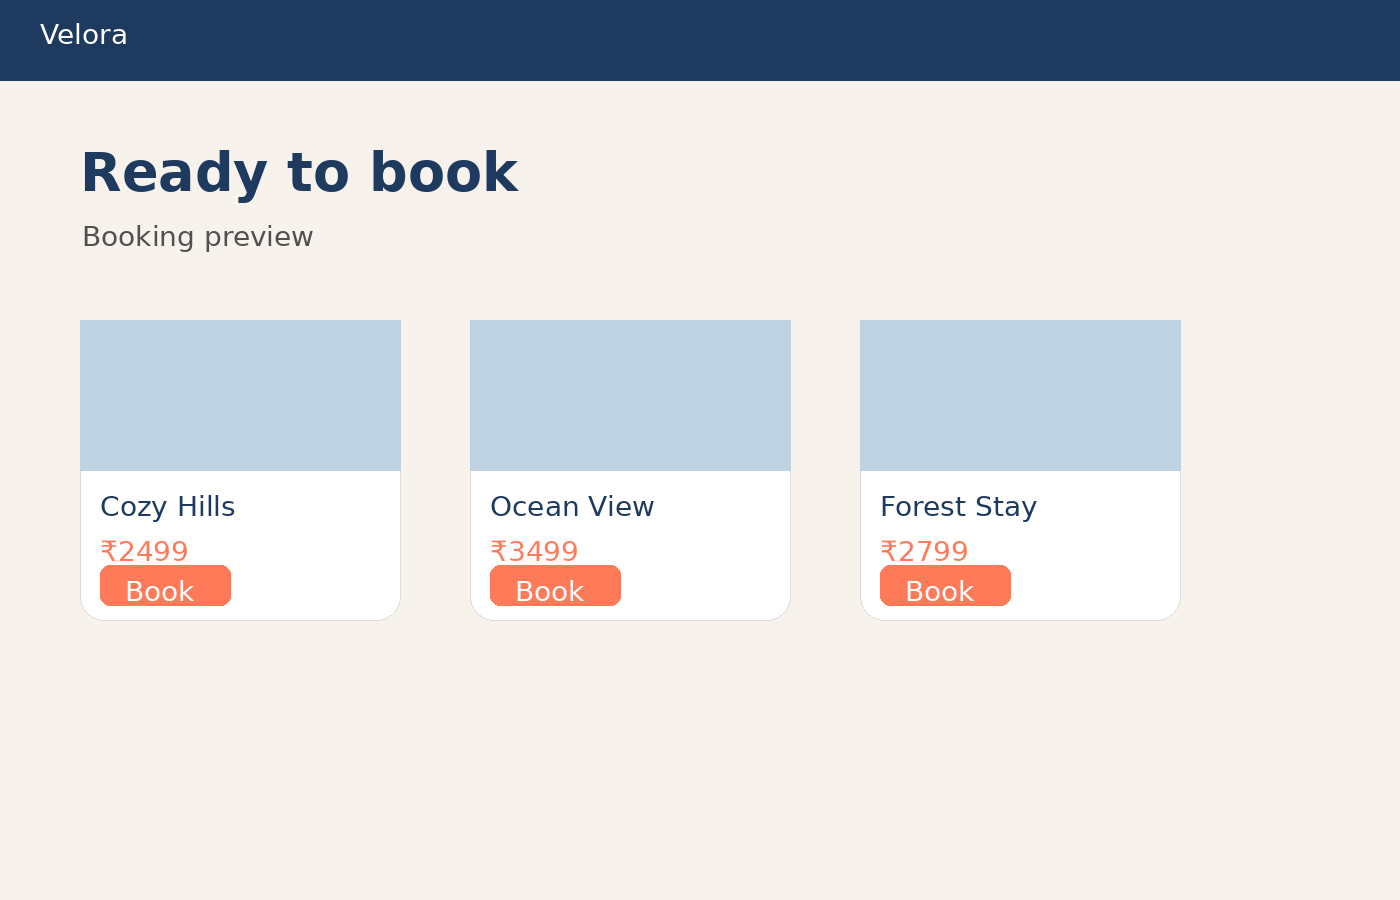
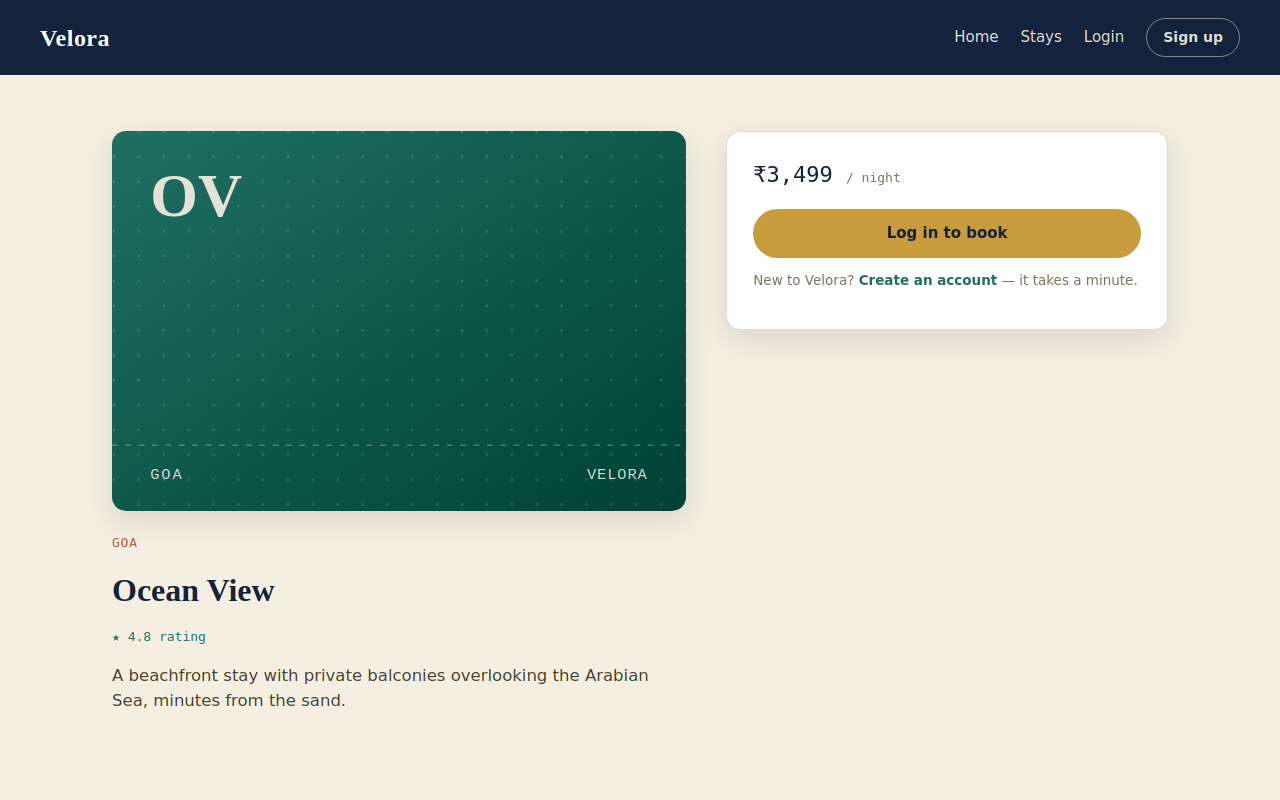
Update images and README

diff --git a/data/hotels.js b/data/hotels.js
@@ -8,7 +8,7 @@ const hotels = [
     location: "Ooty, Tamil Nadu",
     price: 2499,
     rating: 4.6,
-    image: "https://picsum.photos/seed/velora1/600/400",
+    image: "/images/cozy-hills.svg",
     description:
       "A quiet hillside cottage surrounded by tea gardens, perfect for a peaceful weekend away from the city."
   },
@@ -18,7 +18,7 @@ const hotels = [
     location: "Goa",
     price: 3499,
     rating: 4.8,
-    image: "https://picsum.photos/seed/velora2/600/400",
+    image: "/images/ocean-view.svg",
     description:
       "A beachfront stay with private balconies overlooking the Arabian Sea, minutes from the sand."
   },
@@ -28,7 +28,7 @@ const hotels = [
     location: "Coorg, Karnataka",
     price: 2799,
     rating: 4.5,
-    image: "https://picsum.photos/seed/velora3/600/400",
+    image: "/images/forest-stay.svg",
     description:
       "Wake up to misty coffee plantations and birdsong at this cosy forest retreat in Coorg."
   },
@@ -38,7 +38,7 @@ const hotels = [
     location: "Jaisalmer, Rajasthan",
     price: 3199,
     rating: 4.4,
-    image: "https://picsum.photos/seed/velora4/600/400",
+    image: "/images/desert-mirage.svg",
     description:
       "Traditional haveli-style rooms with rooftop views of the golden fort and the Thar Desert."
   },
@@ -48,7 +48,7 @@ const hotels = [
     location: "Alleppey, Kerala",
     price: 4299,
     rating: 4.9,
-    image: "https://picsum.photos/seed/velora5/600/400",
+    image: "/images/backwater-bliss.svg",
     description:
       "A houseboat stay drifting along the calm backwaters, complete with home-cooked Kerala meals."
   },
@@ -58,7 +58,7 @@ const hotels = [
     location: "Manali, Himachal Pradesh",
     price: 2999,
     rating: 4.7,
-    image: "https://picsum.photos/seed/velora6/600/400",
+    image: "/images/mountain-echo.svg",
     description:
       "A snug wooden lodge with views of snow-capped peaks and easy access to nearby treks."
   }

diff --git a/README.md b/README.md
@@ -1,19 +1,38 @@
-# Velora
+<div align="center">
 
-A small travel-stay booking site built with Express and EJS. Browse stays, sign up, log in, and book a stay with dates and guest count.
+# 🧳 Velora
+
+**Find a quiet place to land.**
+
+*A small, characterful stay-booking app for hillside cottages, backwater houseboats, and desert havelis — built with Express, EJS, and a soft spot for vintage travel tickets.*
 
 ![Home page](screenshots/home.png)
 
+</div>
+
+---
+
+## What this is
+
+Velora is a boutique booking site for the kind of stays you don't find by scrolling an algorithm — a coffee-plantation retreat in Coorg, a houseboat drifting through Alleppey's backwaters, a haveli room facing the Jaisalmer fort. Six curated stays, a full login/booking flow, and a design language borrowed from boarding passes and dashed ticket stubs.
+
+No ads, no infinite scroll, no "12 people are looking at this right now." Just stays worth going quiet for.
+
+## Take the tour
+
+| Browse | Book | Confirm |
+|---|---|---|
+| ![Listings](screenshots/listings.png) | ![Booking](screenshots/booking.png) | Ticket-style confirmation with your dates, guests, and total |
+
 ## Features
 
-- Home page with featured stays
-- Full stays listing page
-- Listing detail page with a booking form
-- Signup / login / logout (sessions, hashed passwords)
-- Booking requires login; you're sent to login and back to the listing you wanted afterward
-- Booking confirmation page with a ticket-style summary
-- Custom 404 page
-- Responsive layout (mobile nav)
+- 🏡 Home page with featured stays + a full listings page
+- 🎫 Listing detail pages with a live booking form
+- 🔐 Real auth — signup, login, logout, hashed passwords, sessions
+- ↩ Try to book without logging in and you're sent to log in, then dropped right back where you were headed
+- 🧾 Boarding-pass-style booking confirmation
+- 📱 Responsive, down to a collapsing mobile nav
+- 🪧 A custom 404 for anyone who wanders off the map
 
 ## Getting started
 
@@ -23,9 +42,9 @@ cp .env.example .env   # then edit .env if you want
 npm start
 ```
 
-Open **http://localhost:3000**.
+Open **http://localhost:3000** and start exploring.
 
-For auto-reload during development:
+For auto-reload while you tinker:
 
 ```bash
 npm run dev
@@ -33,11 +52,13 @@ npm run dev
 
 ## Environment variables
 
-See `.env.example`. `SESSION_SECRET` should be a long random string in any real deployment — the fallback in the code is for local development only.
+See `.env.example`. Set `SESSION_SECRET` to a long random string before deploying anywhere real — the fallback baked into the code is for local development only, not for production.
 
-## Data
+## How the data works
 
-Stays and users are stored **in memory** (`data/hotels.js`, `data/users.js`) so the app runs with zero setup. Data resets whenever the server restarts. To persist data, swap those two files for a real database (e.g. MongoDB with Mongoose) — the rest of the app (routes, views) doesn't need to change, only the functions each module exports.
+Stays and users live **in memory** (`data/hotels.js`, `data/users.js`), so the app runs with zero setup — no database to install, no connection string to fight with. The tradeoff: everything resets when the server restarts.
+
+Ready to make it permanent? Swap those two files for a real database (MongoDB with Mongoose is a natural fit) and keep the same exported function shapes — nothing in `routes/` or `views/` needs to change.
 
 ## Project structure
 
@@ -57,21 +78,22 @@ Velora/
 │   ├── partials/               # navbar, footer
 │   └── *.ejs                    # pages
 ├── public/
-│   ├── css/style.css
+│   ├── css/style.css            # navy / parchment / brass design system
+│   ├── images/                   # branded SVG placeholders per stay
 │   └── js/main.js
 └── .env.example
 ```
 
-## Fixes made to the original version
+## Roadmap ideas
 
-See the pull request / commit history, or ask the assistant that generated this project — the short version is: added missing routes and pages that the nav promised (Stays, Login, booking flow), added authentication, added form validation and error states, fixed a broken `.env.example` that was never actually read by the app, added a `.gitignore` so secrets and `node_modules` don't get committed, and gave the site a full page set (listing detail, confirmation, login, signup, 404) instead of only a homepage.
+Some natural next stops if you want to keep building:
 
-## Screenshots
-
-| Home | Listings | Booking |
-|---|---|---|
-| ![Home](screenshots/home.png) | ![Listings](screenshots/listings.png) | ![Booking](screenshots/booking.png) |
+- Swap in-memory data for MongoDB or Postgres
+- Add real photography per stay
+- Search and filter by location, price, or rating
+- Guest reviews
+- Email confirmation on booking
 
 ## License
 
-For personal/learning use.
+For personal and learning use.
